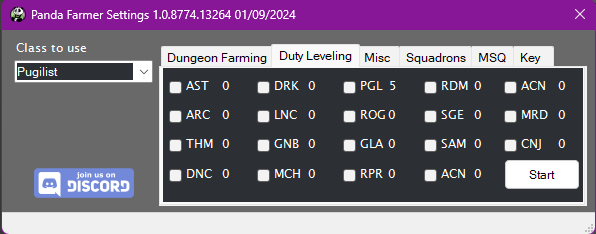
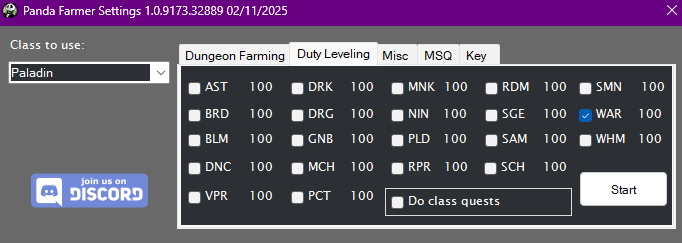
feat: Updated Panda Farmer index

diff --git a/src/docs/plugins/pandafarmer/index.md b/src/docs/plugins/pandafarmer/index.md
@@ -42,7 +42,11 @@ RebornBuddy
 
 This is the main tab of Panda Farmer and as the plugin's name insinuates you'll use it for farming dungeons. You select the class you want to use on the far left side, the dungeon you want to do on the left of the tab, and how you want to queue it on the right. 
 
-Some of the dungeons perform better with the bot than others. In general the ones used for farming I spend more time on getting perfected. The ones that are generally only completed once for MSQ are likely just "good enough." Meaning they may die a few times but will eventually complete the dungeon.
+[Platypus](https://rbplatypus.com/) is required for the profiles to run. You don't have to use it, but it needs to be installed. If you're seeing the `Install Platypus` button, click it and it'll install. (It may get hung trying to restart RebornBuddy. Just close RB and open it back and you should be good.)
+
+
+### Star Ratings
+Some of the dungeons perform better with the bot than others. In general the ones used for farming I spend more time on getting perfected. The ones that are generally only completed once for MSQ are likely just "good enough." Meaning they may die a few times but will eventually complete the dungeon. Tanks will generally have a better time at running lower ranked dungeons due to `Tank privilege`.
 
 As some of these profiles have more effort put into them versus the others I've started using a star system that will display to tell you the quality of the profiles.
 
@@ -52,11 +56,14 @@ As some of these profiles have more effort put into them versus the others I've 
 - ★★☆☆☆ - Two star profiles are good enough to be used unrestricted, but likely have no custom programming for boss mechanics. As long as you're max level though you should be able to farm them relatively well.
 - ★☆☆☆☆ - One star profiles are profiles that work... sometimes. They've got glaring issues that I either can't, or haven't fixed and are usually only used when you really don't want to do the duty yourself but don't mind dying a million times. While these can sometimes be completed by other jobs, tanks will typically have the best survivability on these profiles simply because of their survivability.
 
-[Platypus](https://rbplatypus.com/) is required for the profiles to run. You don't have to use it, but it needs to be installed. If you're seeing the `Install Platypus` button, click it and it'll install. (It may get hung trying to restart RebornBuddy. Just close RB and open it back and you should be good.)
-
+### Settings
 There's now a Settings button on the Dungeon Farming tab. This button will open a window that has Dungeon Farming specific settings, mainly Hello, Goodbye, and wait time. You can also choose whether you'd like to go to your GC Barracks between runs, and if you'd like to turn in items after every run. You can click the Platypus icon to open's Platypus' settings. Once done, hit start and the bot will start it's work.
-Both `Syrcus Tower` and `Porta Decumana` are good enough to be ran with other players and frequently come up when the Moogle Tomestone event is active. You can use these settings to have the bot greet your party up entering the dungeon and then say goodbye upon leaving the dungeon. The Random Wait option lets you specify a random wait time (in milliseconds) to leave the dungeon. For instance it defaults to 15000-30000 which means the bot will randomly choose a time between 15 and 30 seconds before it leaves the dungeon after it's over.
-There's already a pre-programmed list of greetings and goodbyes, but if you don't like that list you can use the option to set a custom message. When you click the box for custom message a text box will appear for you to type in your custom greeting. You can put one or more greetings separated by a `/` and the bot will randomly cycle between them. For example `hello/hi/yo/what'sup` will randomly cycle between the four greetings each fight and use a different one until all four are used before starting back over.
+
+I have also added a check box for `Run season Events When Available`. This will cause Panda Farmer to input the quest line for and seasonal events that are active whenever you press a Start button. For example if you go to farm a dungeon, it'll do the seasonal quest first before running the dungeon. It will do the same goes for any other feature of PF.
+
+??? note "Syrcus Tower and Porta Decumana"
+    Both `Syrcus Tower` and `Porta Decumana` are good enough to be ran with other players and frequently come up when the Moogle Tomestone event is active. You'll likely want to tweak the greeting and leave time settings to your liking.
+
 
 For infoamtions sake, here are the list of pre-programmed greetings and goodbyes:
 
@@ -212,7 +219,9 @@ For infoamtions sake, here are the list of pre-programmed greetings and goodbyes
 ## Duty leveling
 ![img-small](../../img/pandaFarmerDutyLeveling.png){.center .xsmall}
 
-This tab is used for leveling various jobs. Select the jobs you wish to level and hit Start. It'll unlock jobs that haven't been unlocked yet. It'll do class quests along the way. It will respect the `Go To Barracks` and `Turn In Every Run` settings from Dungeon Farming tab. The Duty Leveling tab will update with levels and classes as your character goes along to give you an at-a-glance idea of your leveling status. When the bot stops you'll get a print out in RebornBuddy's log showing you the levels gained during this session.
+This tab is used for leveling various jobs. Select the jobs you wish to level and hit Start. It'll unlock jobs that haven't been unlocked yet. It'll do class quests along the way. It will respect the `Go To Barracks` and `Turn In Every Run` settings from Dungeon Farming tab. The Duty Leveling tab will update with levels and classes as your character goes along to give you an at-a-glance idea of your leveling status. 
+
+The `Do Class Quests` check box is recommended to leave on as often times you get needed abilities from completing Class Quests.
 
 For information purposes it uses these dungeons:
 
@@ -248,6 +257,20 @@ For information purposes it uses these dungeons:
 
 Here you can find multiple profiles that do various things. This tab respects the Class to Use box as well as the Go To Barracks and GC Turn in settings of Dungeon Farming, if they're relevant to the particular profile being ran.
 
+### 1-50 Current Class & 1-Housing & New Character To Retainer
+
+Both of these profiles were made per user request and are very niche profiles that won't be used by everyday players.
+
+- `1-50 Current Class` uses the Duty Leveling system to level your current class to 50 and stops. It respects the `Do Class Quests` check box from Duty Leveling tab. It will not do any MSQ and simply levels the class from 1-50.
+- `1-Housing` does the entire MSQ process up to the required quest completion to obtain a house. This includes doing class quests, MSQ, and ranking up your Grand Company.
+- `New Character To Retainer` this profile is designed to get a new character up to the point where they unlock a retainer and then stop.
+
+### Dawntrail Wachumeqimeqi Deliveries
+This profile completes the DoH/DoL Delivery Quests for the selected roles for the level 100 Dawntrail quests. It uses Lisbeth to complete the crafting and gathering.
+
+### Dawntrail Role Quests
+This profile completes the Role Quests for the selected roles for the level 100 Dawntrail quests. The final battle on each role does require a manual solo duty.
+
 ### Achievements
 
 - [But Somebody's Gotta Do It](https://ffxiv.gamerescape.com/wiki/But_Somebody%27s_Gotta_Do_It) - Farms Garuda EX for this achievement. For DRK, PLD, and WAR 2.x/3.x war-animal achievement mounts.
@@ -272,9 +295,13 @@ To use this feature follow these steps:
 
 These profiles will gather the various Aether Currents to unlock flying in each expansion. It does both clickable currents as well as the quested ones.
 
+### Guildhests - Under the Armor
+
+These profiles does the Guildhest - Under The Armor for use when spamming guildhests. It does not do any of the ones prior to this guildhest.
+
 ### Grand Company Rank Up
 
-This profile will rank you Grand Company up to Second Lieutenant which is where you obtain your squadrons. Those can't be done by the bot. It will use Expert Turn ins to farm seals, using an appropriate level dungeon to farm dungeon gear to turn in. It will respect the `Go To Barracks` setting from Dungeon Farming tab. While you can do this at lower levels, I don't recommend doing it any lower than 60 as you have to do `The Aurum Vale` and `Dzemael Darkhold` for the GC quests in order to rank up and these dungeons are 47 and 50 respectively. They do not have Duty Support, so the profile can only attempt them unrestricted.
+This profile will rank you Grand Company up to Second Lieutenant which is where you obtain your squadrons. Those can't be done by the bot. It will use Expert Turn ins to farm seals, using an appropriate level dungeon to farm dungeon gear to turn in (RB uses a method to force the turn in of gear for seals even when you're not the appropriate rank yet). It will respect the `Go To Barracks` setting from Dungeon Farming tab. While you can do this at lower levels, I don't recommend doing it any lower than 60 as you have to do `The Aurum Vale` and `Dzemael Darkhold` for the GC quests in order to rank up and these dungeons are 47 and 50 respectively. They do not have Duty Support, so the profile can only attempt them unrestricted.
 
 For information purposes it uses these dungeons:
 
@@ -303,7 +330,7 @@ This profile will go and do the class quests for whatever job you set on the job
 
 These profiles will complete the available side quests in each specific region. I eventually intend to have all regions covered, but it's slow going.
 
-Currently available: `La Noscea` `Thanalan`
+Currently available: `La Noscea` `Thanalan` `Dawntrail`
 
 ### Guildheist
 
@@ -316,6 +343,10 @@ This will join the Blunderville crossover game, attempt to win (It never will) a
 [Platypus](https://rbplatypus.com/) has added a tab to allow you to automatically purchase the event items.
 
 ![type:video](https://www.youtube.com/embed/fkPBmKaMyuk)
+
+### Yo-kai Watch
+
+This section is used to farm the Yo-Kai watch crossover event when it's active. You can use the settings to farm the medals you need. It does NOT trade the medals in for you, that will need to be done manually. You can select the `Go to Yo-Kai vendor` check box and hit Start for the bot to take you to the Vendor to turn in your medals.
 
 
 ### Squadrons
@@ -342,18 +373,27 @@ This profile is designed to farm FATEs to gather Yo-Kai medals to complete the [
 ## MSQ
 ![img-small](../../img/pandaFarmerMSQ.png){.center .xsmall}
 
-This tab does the Main Story Quest for the game. It is a replacement to my sponsored MSQ repo. The MSQ section of Panda Farmer is included with a monthly subscription of Panda Farmer. If you have a Panda Farmer MSQ key you can use it to unlock Panda Farmer MSQ up to the end of Endwalker. Anything 7.0+ requires a subscription.
-
-- A note dungeons: Several of the dungeons required for MSQ aren't perfect and your character will take a lot of stacks of Vulnerability when fighting bosses. For this reason I recommend doing MSQ as a tank class. Tank classes tend to have more survivability and will make it through the dungeons much more reliably.
-
-If you are starting the MSQ process on a character that has yet to choose a Grand Company you have the option to choose which Grand Company the profile joins.
+This tab does the Main Story Quest for the game. I have taken the various publicly available free MSQ profiles and streamlined them, fixing issues along the way and adding automation that the originals didn't have.
 
 It will do the following:
 
 - Complete all Main Story Quests from each expansion, A Realm Reborn (2.x), Heavensward (3.x), Stormblood (4.x), Shadowbringers (5.x), Endwalker (6.x), and Dawntrail (7.x).
 - Complete (most) MSQ Dungeons using the Duty Support system in FFXIV.
+- Complete `Snipe` events automatically.
 - Do class quests for your selected class at intervals along the way.
 - Unlocks flight support for each zone as MSQ progress allows.
+
+??? note "Important Note"
+    Several of the dungeons required for MSQ aren't perfect and your character will take a lot of stacks of Vulnerability when fighting bosses. For this reason I recommend doing MSQ as a tank class. Tank classes tend to have more survivability and will make it through the dungeons much more reliably.
+
+??? note "Grand Company Selection"
+    If you are starting the MSQ process on a character that has yet to choose a Grand Company you have the option to choose which Grand Company the profile joins.
+
+??? note "Grand Company Selection"
+    `Use Lisbeth for travel during MSQ` - This box is only to be used if you're having trouble with RB's built in navigation. Using this will cause the bot not to automatically learn Aetherytes as that's a built in feature of RB's navigation.
+
+??? note "Auto Party"
+    This contains settings to allow a second bot controlled character to run duties for the lower level character. See the [AutoParty](#autoparty) section.
 
 There are some manual steps along the way however, most of them will be duties that aren't supported by the Duty Support system or solo duties that are too complicated for the bot to do itself. The bot will stop and pop up a message to let you know when a manual step is needed.
 Here is a list of the manual steps:
@@ -440,6 +480,21 @@ Here is a list of the manual steps:
     -   Quest `Lv. 100: Dawntrail` requires the 4-player duty Alexandria. *
     -   Quest `Lv. 100: Dawntrail` requires the 8-player trial The Interphos. 
     - * These duties have profiles created for them. However their mechanics are not optimized and may not be completable by non-tank classes. If you're on a tank type class, the profile will automatically queue the dungeon. Otherwise it will stop and allow you to do it manually or continue with the profile.
+
+
+## Key
+![img-small](../../img/pandaFarmerKey.png){.center .xsmall}
+
+Place your `Product Key` in the box and press `Verify.`
+
+??? note "Reset ID"
+    Product keys are restricted to 8 characters and 2 PCs. If you end up having to reinstall Windows or make major changes to your computer, the key may think it's a different computer. The `Reset ID` button will reset all instances of your characters and PCs and allow you to use the key freely. However you can only use this button once. If you run into issues and need the key reset again, message me on Discord.
+
+??? note "One-Time Purchase MSQ Key"
+    The MSQ section of Panda Farmer is included with a monthly subscription of Panda Farmer. If you have a Panda Farmer MSQ key you can use it to unlock Panda Farmer MSQ up to the end of Endwalker. Anything 7.0+ requires a subscription.
+
+??? warning "Don't Touch"
+    There's a checkbox on this screen labeled `Don't touch`. Please don't touch it, leave it unchecked. I use it for testing and it WILL mess up the bot.
 
 
 [3]: https://img.shields.io/badge/Discord-7389D8?logo=discord&logoColor=ffffff&labelColor=6A7EC2
